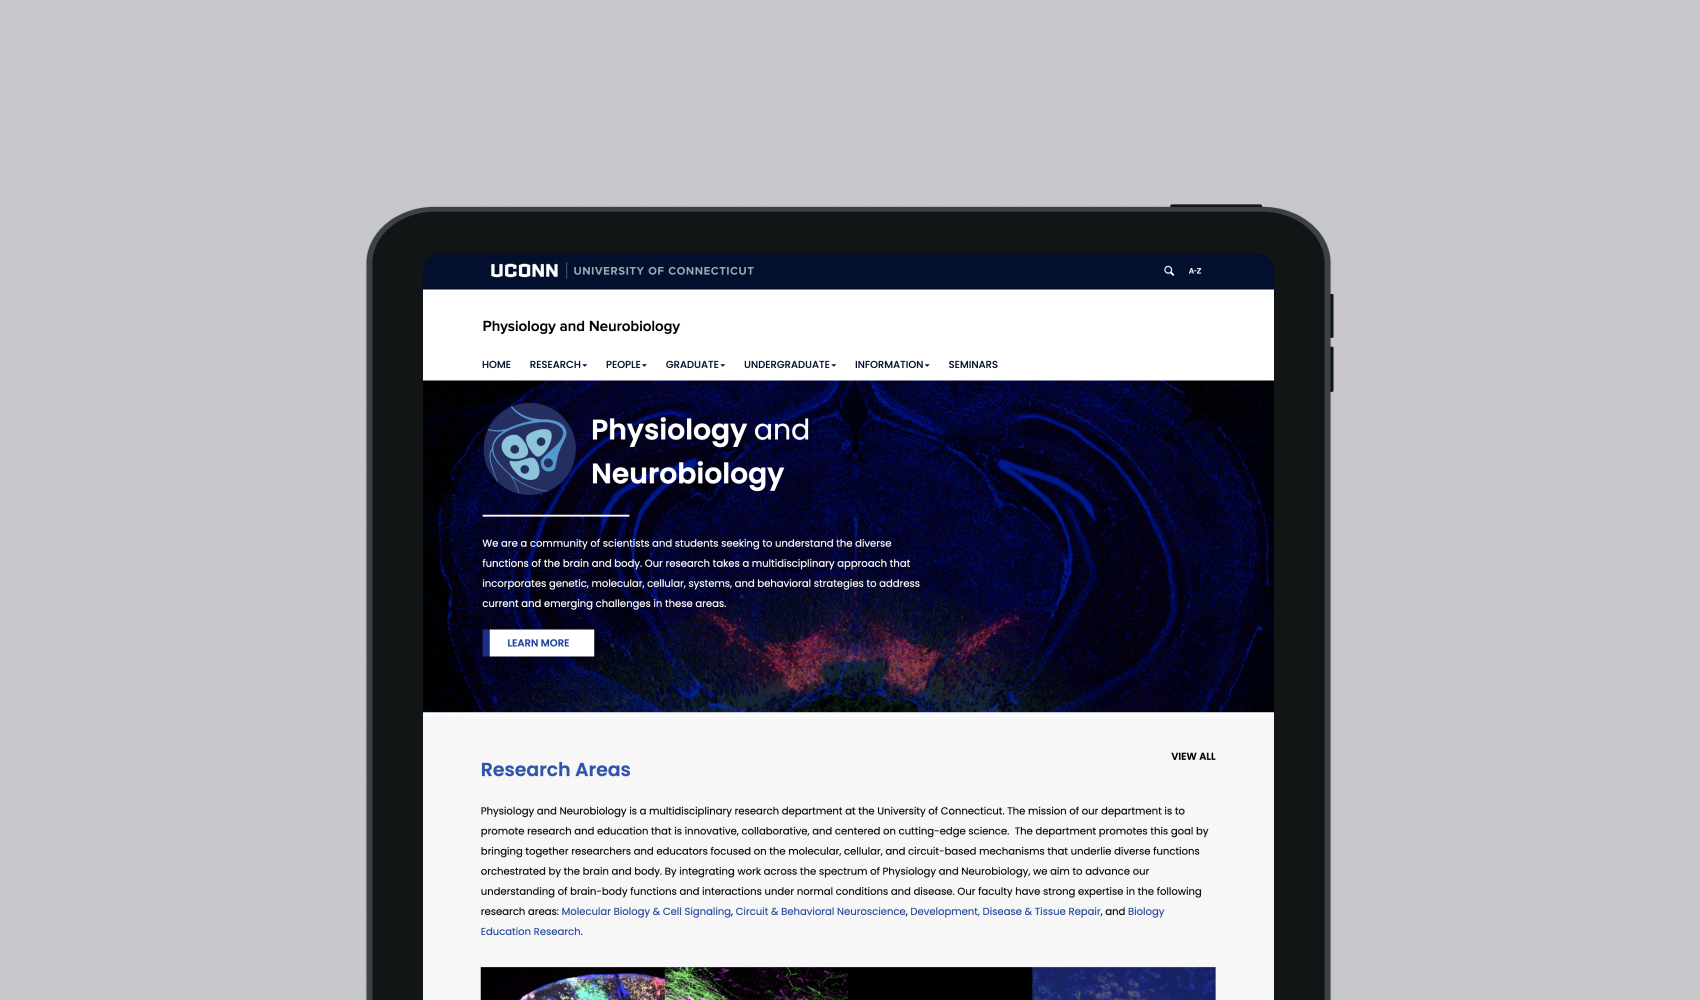
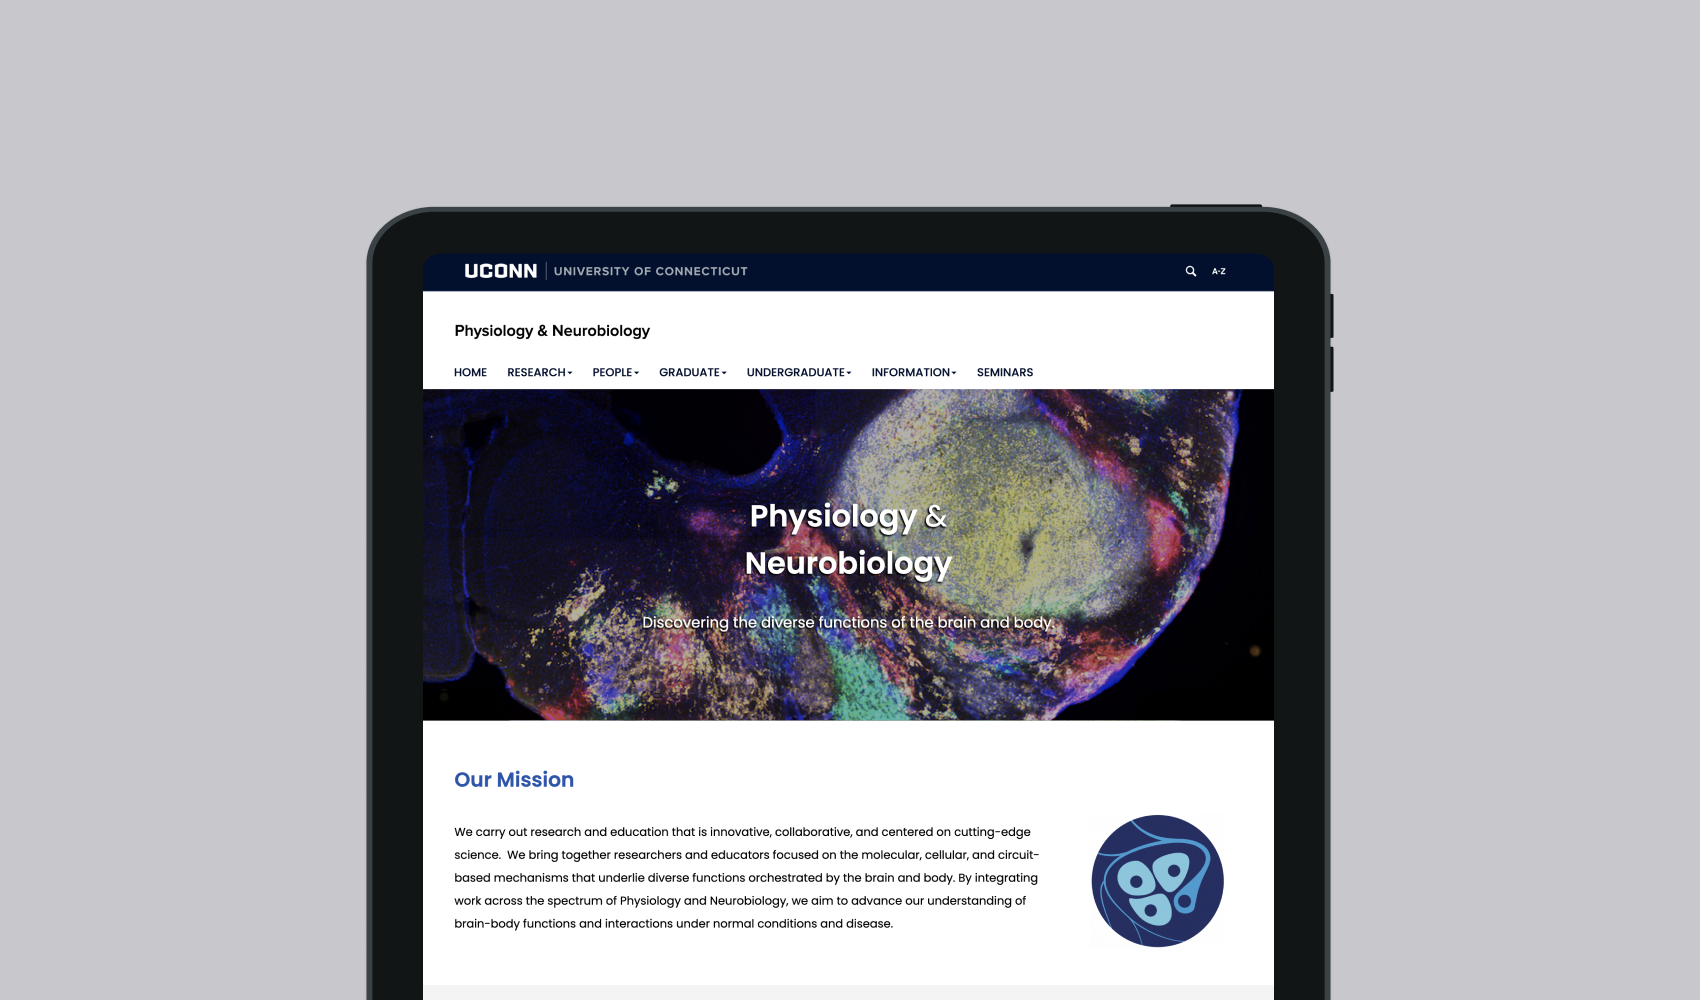
new project addition

Changed region(s): [[0.2494, 0.31, 0.7482, 1.0], [0.2806, 0.248, 0.4365, 0.279], [0.6859, 0.248, 0.7171, 0.279]]

diff --git a/projects.html b/projects.html
@@ -78,8 +78,41 @@
     <div class="container">
       <h2>All Projects</h2>
 
-      <!-- Grid row -->
+
     <div class="row modal-row">
+      <!-- modal 11 -->
+      <div class="col-md-6">
+        <div class="modal fade" id="modal11" tabindex="-1" role="dialog" aria-labelledby="myModalLabel" aria-hidden="true">
+          <div class="modal-dialog modal-lg modal-dialog-centered" role="document">
+            <!--Content-->
+            <div class="modal-content">
+              <div class="modal-header">
+                <h3>Voice Switch/Brain Switch</h3>
+                <button type="button" class="close" data-dismiss="modal" aria-label="Close">
+                  <span aria-hidden="true">&times;</span>
+                </button>
+              </div>
+              <!--Body-->
+              <div class="modal-body">
+                <a href="https://voiceswitch.sfa.uconn.edu/" target="_blank"><button type="button" class="btn btn-primary">View Site</button></a>
+                <p></p>
+              </div>
+            </div>
+          </div>
+        </div>
+        <!-- modal img -->
+        <div class="modal-img-container">
+          <a><img class="img-fluid z-depth-1 image" src="img/Brain switch.png" alt="voice switch brain switch website" ></a>
+          <div class="overlay overlay9" data-toggle="modal" data-target="#modal11">
+            <div class="text">
+              <p>website</p>
+              <h4>Voice Switch/Brain Switch</h4>
+            </div>
+          </div>
+        </div>
+
+      </div>
+
       <!-- modal 8 -->
       <div class="col-md-6">
         <div class="modal fade" id="modal8" tabindex="-1" role="dialog" aria-labelledby="myModalLabel" aria-hidden="true">
@@ -94,7 +127,8 @@
               </div>
               <!--Body-->
               <div class="modal-body">
-                <p>We're in the process of helping the department of Physiology & Neurobiology redesign their website. The website will be launched during Summer 21.</p>
+                <a href="https://pnb.uconn.edu/" target="_blank"><button type="button" class="btn btn-primary">View Site</button></a>
+                <p></p>
               </div>
             </div>
           </div>
@@ -144,12 +178,9 @@
         </div>
 
       </div>
-    </div>
 
 
-    <!-- Grid row -->
-    <div class="row modal-row">
-            <!-- modal 1 -->
+            <!-- modal 10 -->
             <div class="col-md-6">
               <div class="modal fade" id="modal10" tabindex="-1" role="dialog" aria-labelledby="myModalLabel" aria-hidden="true">
                 <div class="modal-dialog modal-lg modal-dialog-centered" role="document">
@@ -182,6 +213,7 @@
               </div>
       
             </div>
+
       <!-- modal 1 -->
       <div class="col-md-6">
         <div class="modal fade" id="modal1" tabindex="-1" role="dialog" aria-labelledby="myModalLabel" aria-hidden="true">
@@ -217,11 +249,8 @@
         </div>
 
       </div>
-    </div>
 
 
-        <!-- Grid row -->
-        <div class="row modal-row" >
           <!-- modal 7 -->
       <div class="col-md-6">
         <div class="modal fade" id="modal7" tabindex="-1" role="dialog" aria-labelledby="myModalLabel" aria-hidden="true">
@@ -287,10 +316,7 @@
             </div>
     
           </div>
-        </div>
 
-        <!-- Grid row -->
-        <div class="row modal-row">
           <!-- modal 6 -->
           <div class="col-md-6">
             <div class="modal fade" id="modal6" tabindex="-1" role="dialog" aria-labelledby="myModalLabel" aria-hidden="true">
@@ -355,12 +381,7 @@
             </div>
     
           </div>
-  
-        </div>
 
-
-        <!-- Grid row -->
-        <div class="row modal-row" >
           <!-- modal 4 -->
           <div class="col-md-6">
             <div class="modal fade" id="modal4" tabindex="-1" role="dialog" aria-labelledby="myModalLabel" aria-hidden="true">
@@ -424,7 +445,6 @@
               </div>
             </div>
   
-        </div>
 
     </section>
     

diff --git a/index.css b/index.css
@@ -645,6 +645,10 @@ color: #4563fc;
     background-color: #020439bd;
 }
 
+.overlay9 {
+    background-color: #242631c9;
+}
+
   .modal-img-container:hover .overlay {
     height: 100%;
     cursor: pointer;
@@ -688,6 +692,14 @@ color: #4563fc;
         margin-top: 0px;
     }
   }
+
+  @media (min-width:768px){
+    .row.modal-row .col-md-6 {
+        margin-bottom: 30px;
+    }
+  }
+
+
 
   /*=================== hire section ==================*/
   #hire .row{
